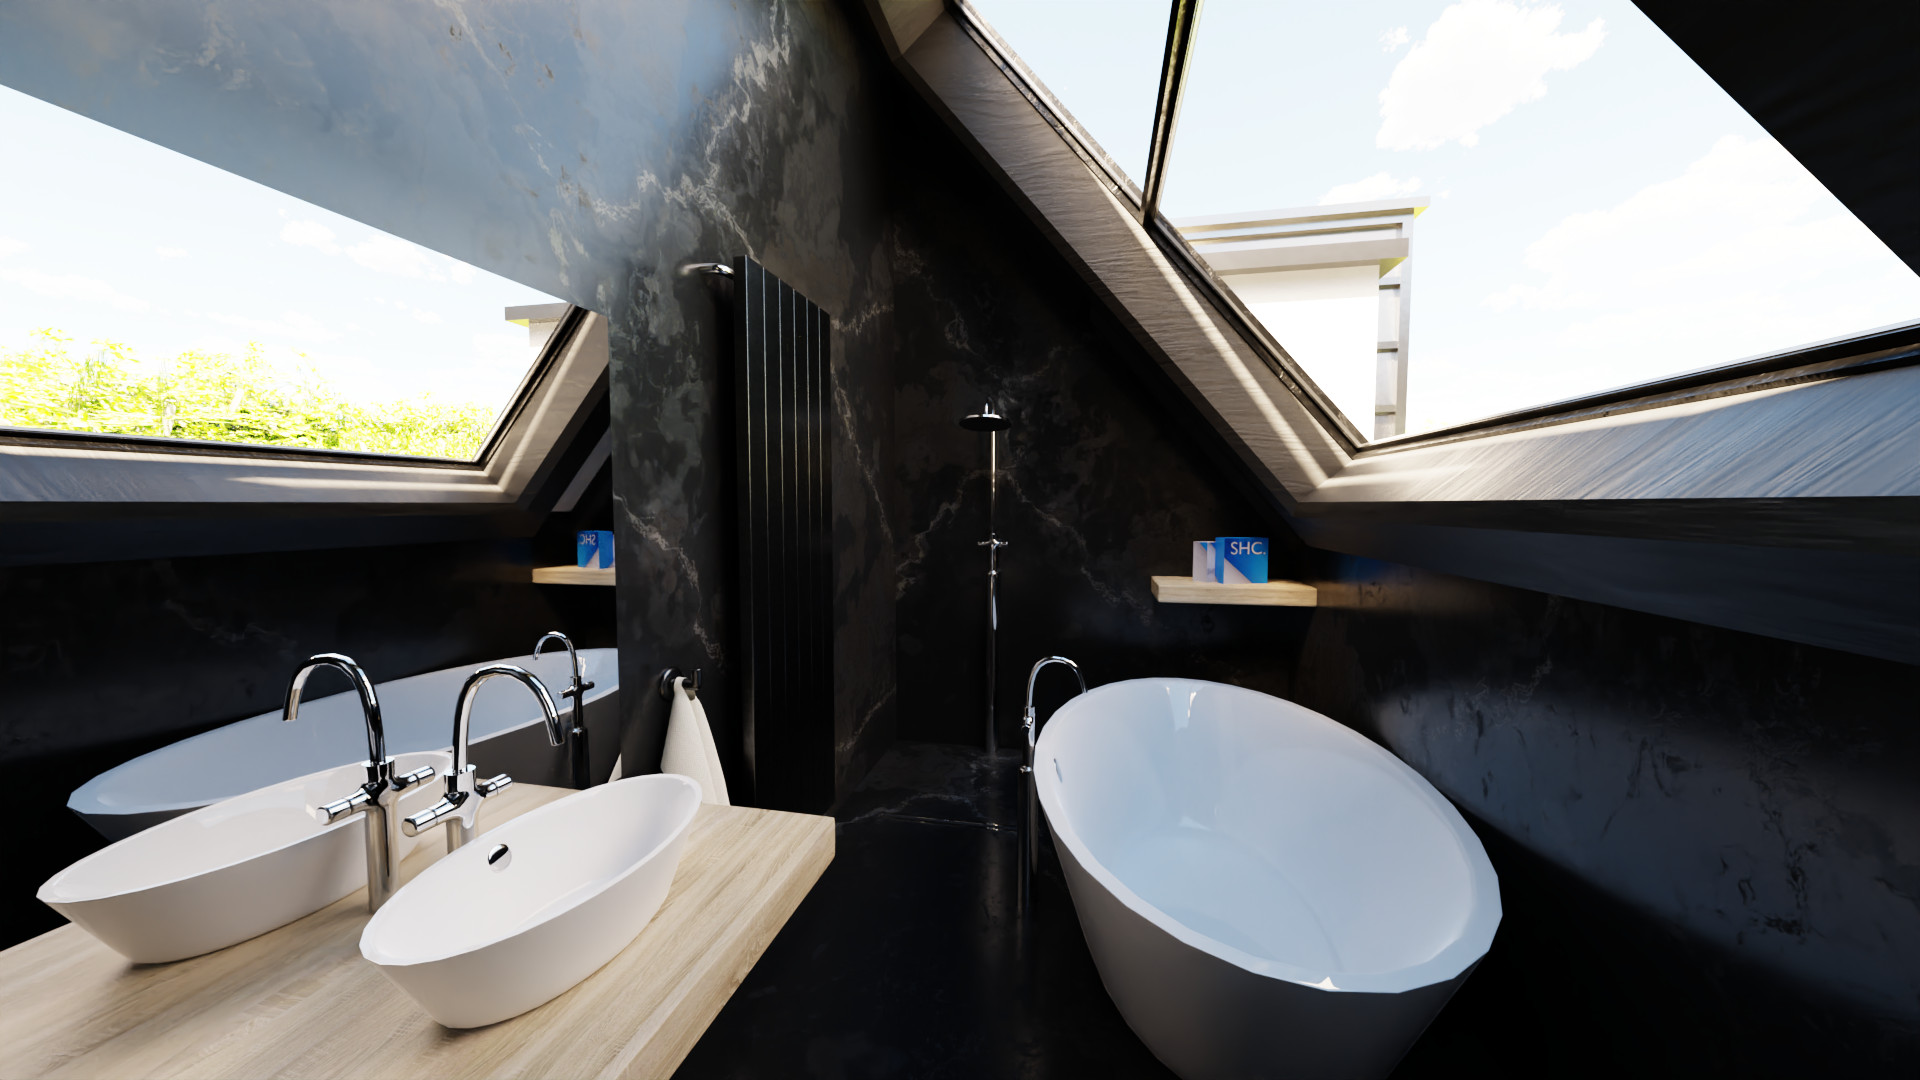
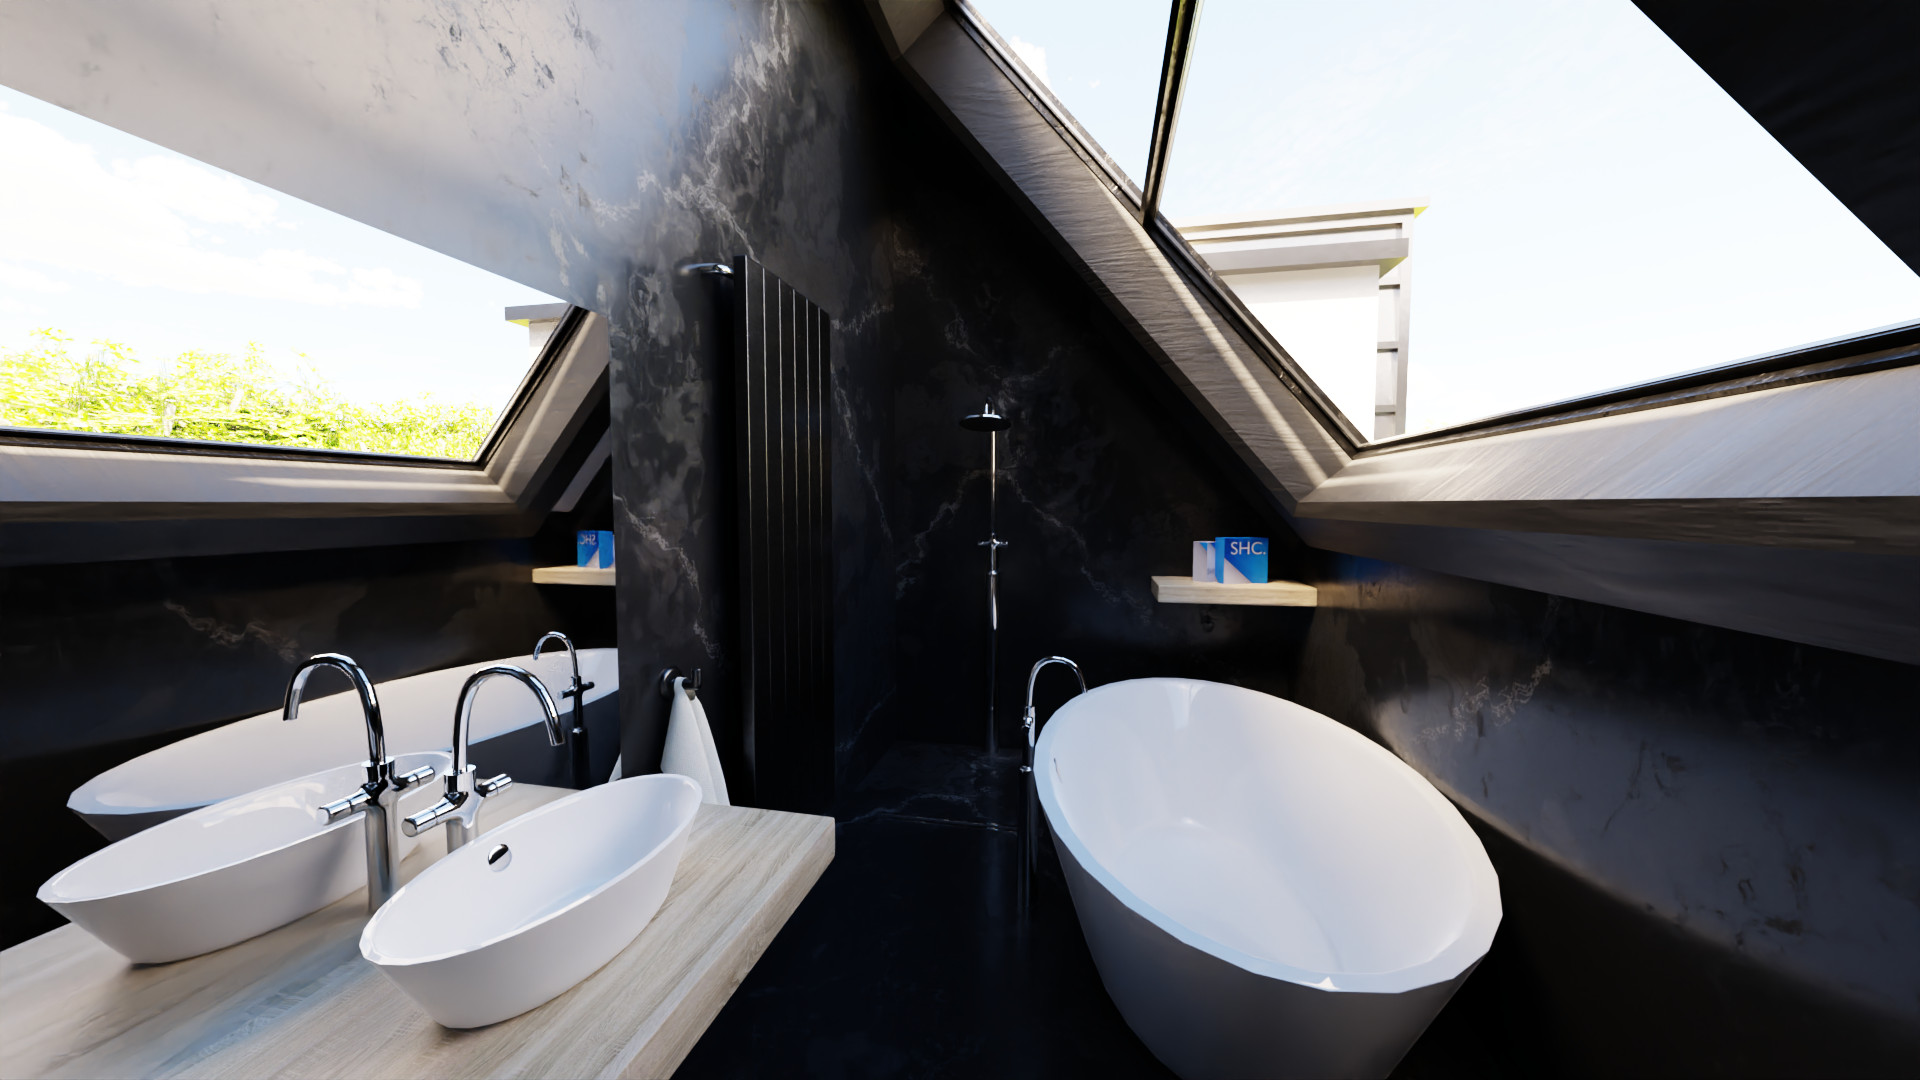
Update sky in scenes

diff --git a/README.md b/README.md
@@ -2,9 +2,6 @@
 
 Test application for a Ray library bundled with a lot of heavy test scenes. Mostly needed for CI checks.
   - Library part can be found here: https://github.com/sergcpp/Ray
-<details>
-  <summary>Images</summary>
-
   - Links to the original test scenes:  \
     https://benedikt-bitterli.me/resources/  \
     https://www.blender.org/download/demo-files/  \
@@ -13,42 +10,3 @@ Test application for a Ray library bundled with a lot of heavy test scenes. Most
     https://wirewheelsclub.com/models/1965-ford-mustang-fastback \
     https://evermotion.org/shop/show_product/scene-1-ai43-archinteriors-for-blender/14564 \
     https://www.blendermarket.com/products/blender-eevee-modern-villa
-
-<div>
-<div float="left" >
-  <img src="villa.png" width="44.7%" />
-  <img src="villa_pool.png" width="44.7%" />
-</div>
-<div float="left" >
-  <img src="italian_flat.png" width="47.0%" />
-  <img src="ai043_01.png" width="42.4%" />
-</div>
-<div float="left" >
-  <img src="bistro_night.png" width="44.7%" />
-  <img src="bistro.png" width="44.7%" />
-</div>
-<div float="left" >
-  <img src="bistro_interior.png" width="46.95%" />
-  <img src="mustang.png" width="42.45%" />
-</div>
-<div float="left" >
-  <img src="villa_garage.png" width="44.7%" />
-  <img src="villa_bathroom.png" width="44.7%" />
-</div>
-<div float="left" >
-  <img src="bathroom.png" width="26.55%" />
-  <img src="sponza.png" width="62.9%" />
-</div>
-<div float="left" >
-  <img src="italian_flat_back.png" width="60.0%" />
-  <img src="coffee_maker.png" width="29.4%" />
-</div>
-<div float="left" >
-  <img src="staircase.png" width="29.9%" />
-  <img src="italian_flat_kitchen.png" width="59.5%" />
-</div>
-<div float="left" >
-  <img src="mustang_interior.png" width="89.8%" />
-</div>
-</div>
-</details>

diff --git a/src/Ray/README.md b/src/Ray/README.md
@@ -13,7 +13,7 @@ Features:
 <details>
   <summary>Images</summary>
 
-  - Rendered with time limit of 1 minute using: <https://github.com/sergcpp/RayDemo>
+  - Rendered with time limit of 15 seconds using: <https://github.com/sergcpp/RayDemo>
   - Links to the original scenes:  \
     https://benedikt-bitterli.me/resources/  \
     https://www.blender.org/download/demo-files/  \
